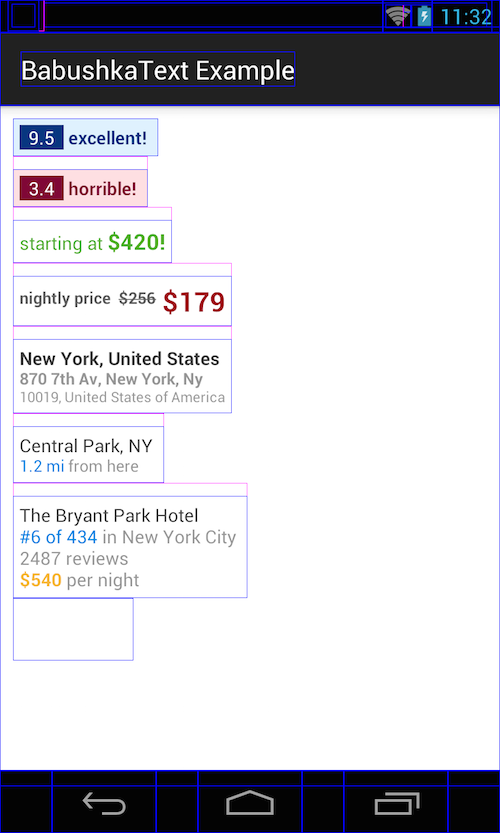
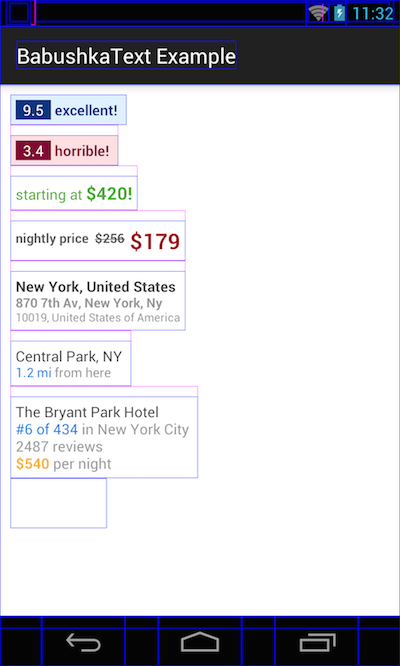
updated README.MD file and resized images

diff --git a/README.MD b/README.MD
@@ -1,15 +1,18 @@
-Butter Knife
+BabushkaText
 ============
 
-BabushkaText is a TextView which lets you customize the styling of parts of your text via Spannables,
-but without the hassle of having to deal directly with Spannable themselves.
+BabushkaText is a custom `TextView` which lets you customize the styling of parts of your text via
+`Spannables`, but without the hassle of having to deal directly with Spannable themselves.
 
  * Create complex style structures for your text without having to add multiple `TextViews` to your
  view hierarchy.
  * Eliminate `setSpan(Object what, int start, int end, int flags)` calls by using more convenient
  methods such as `.style(Typeface.BOLD)`, `.superscript()` and others.
 
+What can I do with BabushkaText?
+--------
 Examples of what you can do with BabushkaText. Each item is a single TextView.
+
 ![Logo](images/example.png)
 
 Example
@@ -18,7 +21,7 @@ Generate the following style:
 
 ![NewY York](images/newyork.png)
 
-With this code:
+With the code below:
 
 ```java
         BabushkaText babushka = (BabushkaText)findViewById(R.id.babushka_text);
